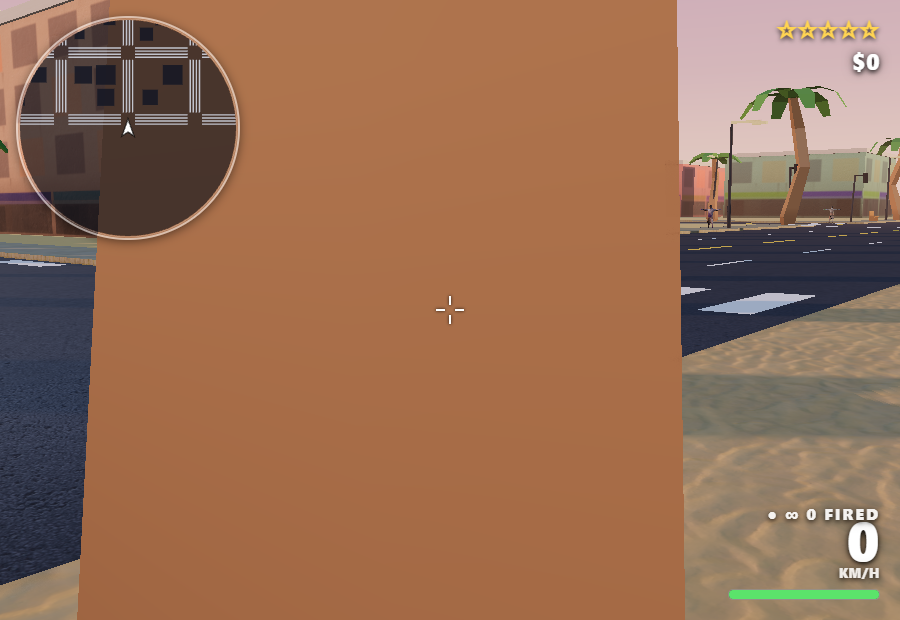
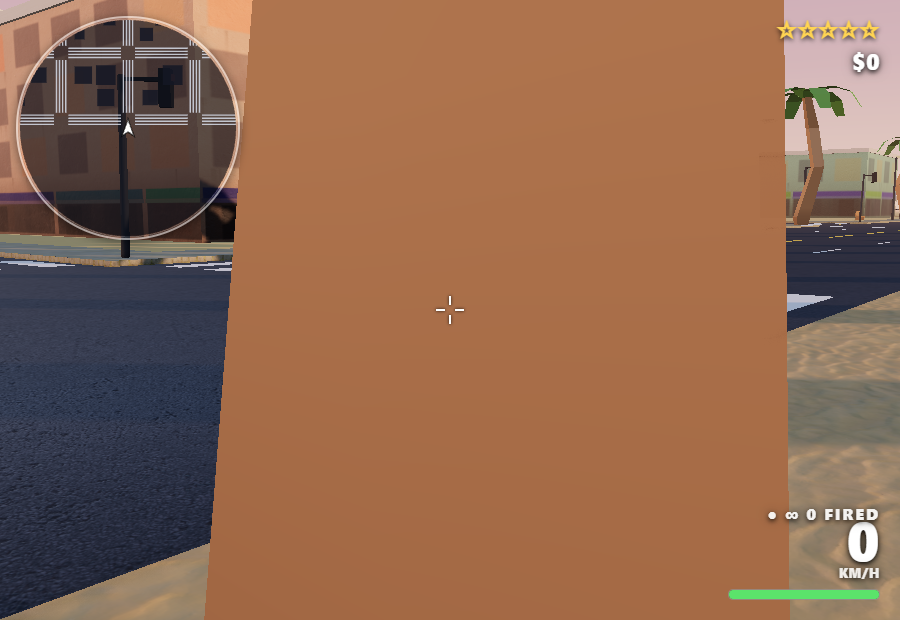
intro: hold each shot still and cut sooner
The drift within each shot is gone: nothing moves between cuts, so the zoom
IS the cut. Each shot is one held pose rather than a pair to interpolate
between, which is also what the config now says.

Durations 3.0/2.4/2.0 -> 1.1/0.9/0.8. Held long enough to read the frame and
no longer. The final blend into the game is untouched at 1.8 s.

Claude-Session: https://claude.ai/code/session_01XbRBYcpYYS1d2eJCUddGsN

diff --git a/src/config.ts b/src/config.ts
@@ -129,26 +129,24 @@ export const CFG = {
       /** `?intro=0` turns it off for a session; the smoke suite sets that. */
       enabled: true,
       /**
-       * Each shot drifts from the first element of every pair to the second
-       * over `dur` seconds, then CUTS to the next. `az` is degrees around the
-       * player measured from behind them, so shot 1 sits over their shoulder
-       * and each cut swings to a genuinely different side. `look` is how far
-       * above their feet the camera aims: keeping it high on the wide shots
-       * holds the horizon in frame instead of staring at the pavement.
+       * One held pose per shot, cut hard to the next. Nothing moves within a
+       * shot: the zoom is the cut. Held just long enough to read the frame and
+       * no longer -- the whole point is the snap between them.
+       *
+       * All three are `topDown`: straight down at the ground from directly
+       * overhead. For those, `dist` and `az` are a horizontal offset from what
+       * the shot is centred on, `az` doubles as which compass bearing points up
+       * the screen -- a straight-down view has no other way to define roll --
+       * and `look` is unused.
+       *
+       * The first is `world`: it frames the CITY, not the player. A player can
+       * spawn anywhere, and centring a seafront spawn put half the frame in open
+       * water. The other two are centred on the player, closing in.
        */
       shots: [
-        // All three are `topDown`: straight down at the ground from directly
-        // overhead, sliding rather than tilting. For those, `dist` and `az` are
-        // a horizontal offset from what the shot is centred on, `az` doubles as
-        // which compass bearing points up the screen -- a straight-down view has
-        // no other way to define roll -- and `look` is unused.
-        //
-        // The first is `world`: it frames the CITY, not the player. A player can
-        // spawn anywhere, and centring a seafront spawn put half the frame in
-        // open water. The other two are centred on the player, closing in.
-        { dur: 3.0, world: true, topDown: true, az: [42, 52], dist: [0, 70], h: [600, 540], look: [0, 0], fov: [45, 45] },
-        { dur: 2.4, topDown: true, az: [130, 141], dist: [0, 30], h: [240, 200], look: [0, 0], fov: [46, 46] },
-        { dur: 2.0, topDown: true, az: [-100, -91], dist: [0, 14], h: [90, 70], look: [0, 0], fov: [50, 50] },
+        { dur: 1.1, world: true, topDown: true, az: 46, dist: 0, h: 600, look: 0, fov: 45 },
+        { dur: 0.9, topDown: true, az: 135, dist: 0, h: 240, look: 0, fov: 46 },
+        { dur: 0.8, topDown: true, az: -96, dist: 0, h: 90, look: 0, fov: 50 },
       ],
       /**
        * The last shot starts behind the player -- az 0, where the chase camera

diff --git a/src/camera/introCamera.ts b/src/camera/introCamera.ts
@@ -50,14 +50,6 @@ interface Pose {
   fov: number;
 }
 
-const lerpPose = (a: Pose, b: Pose, t: number): Pose => ({
-  az: THREE.MathUtils.lerp(a.az, b.az, t),
-  dist: THREE.MathUtils.lerp(a.dist, b.dist, t),
-  h: THREE.MathUtils.lerp(a.h, b.h, t),
-  look: THREE.MathUtils.lerp(a.look, b.look, t),
-  fov: THREE.MathUtils.lerp(a.fov, b.fov, t),
-});
-
 export class IntroFlight implements Renderable {
   /** True from the first frame of the flight until the blend completes. */
   active = false;
@@ -71,8 +63,7 @@ export class IntroFlight implements Renderable {
     world: 'world' in s && s.world === true,
     /** True to sit directly overhead pointing straight down. */
     topDown: 'topDown' in s && s.topDown === true,
-    from: { az: s.az[0], dist: s.dist[0], h: s.h[0], look: s.look[0], fov: s.fov[0] } as Pose,
-    to: { az: s.az[1], dist: s.dist[1], h: s.h[1], look: s.look[1], fov: s.fov[1] } as Pose,
+    pose: { az: s.az, dist: s.dist, h: s.h, look: s.look, fov: s.fov } as Pose,
   }));
   private readonly flightTime = I.shots.reduce((a, s) => a + s.dur, 0);
   private readonly total = this.flightTime + I.handover.dur;
@@ -226,7 +217,7 @@ export class IntroFlight implements Renderable {
       return;
     }
 
-    // --- shots 1..3: drift within the shot, hard cut between them ------------
+    // --- shots 1..3: each pose held still, hard cut between them -------------
     let t = this.t;
     let shot = this.shots[0];
     for (const s of this.shots) {
@@ -234,7 +225,7 @@ export class IntroFlight implements Renderable {
       t -= s.dur;
       shot = s;
     }
-    const p = lerpPose(shot.from, shot.to, ease(t / shot.dur));
+    const p = shot.pose;
     this.place(p, shot.world, shot.topDown, this.eye, this.quat);
     cam.position.copy(this.eye);
     cam.quaternion.copy(this.quat);
